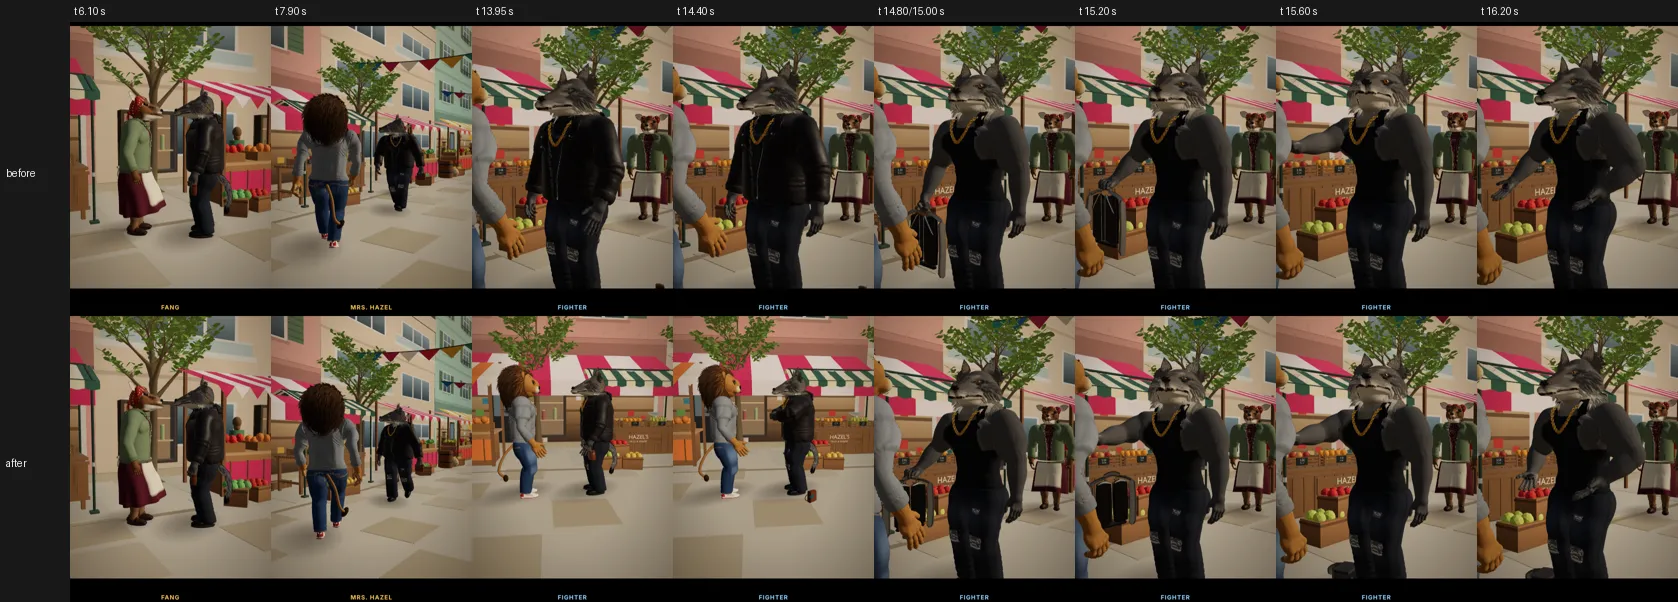
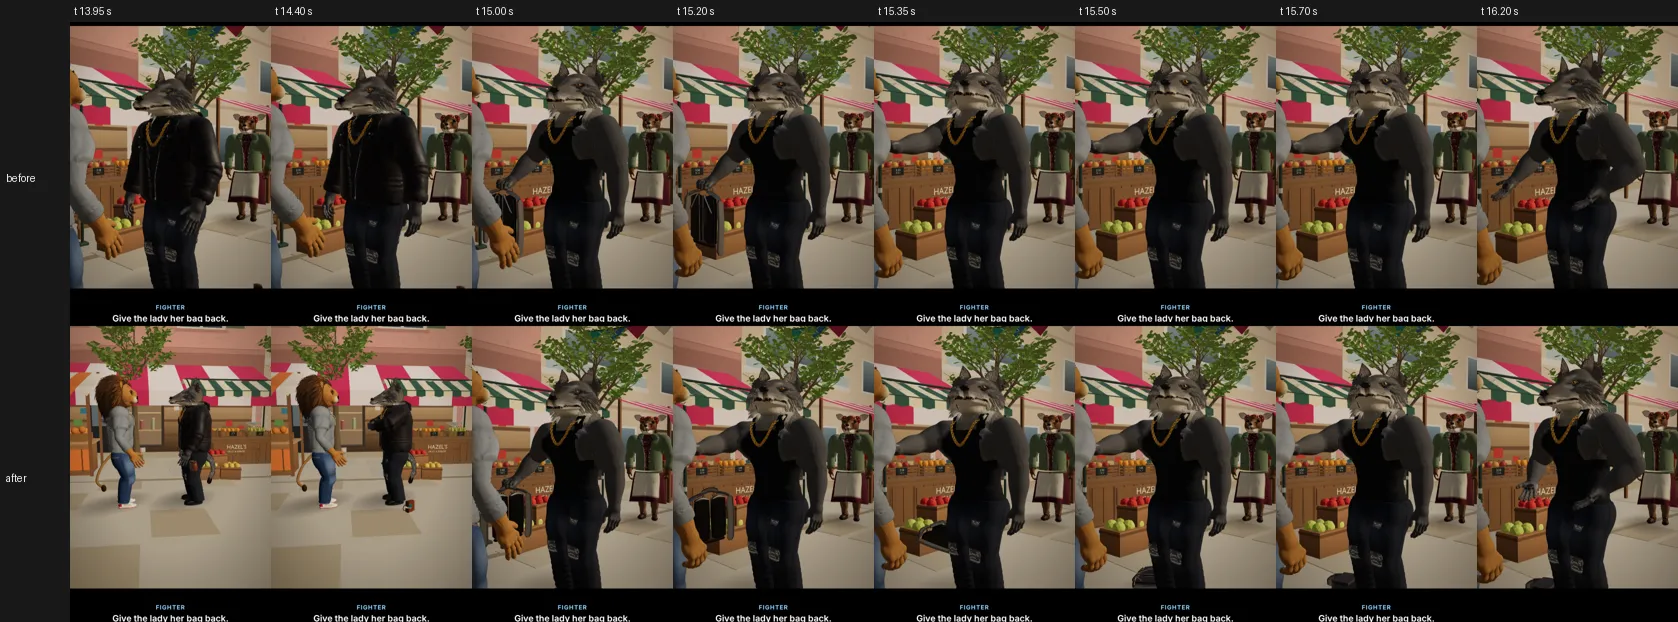
ch1-motion: reward handovers at 1 m and chest height, reward shot reframed; robbery and reward strips on v1.93
Claude-Session: https://claude.ai/code/session_012XYxhNGd6wn6U9MuUmHsfB

diff --git a/adventure/story/market-core.js b/adventure/story/market-core.js
@@ -173,8 +173,8 @@
         { t: 8.2, pos: [1.85, 1.7, 1.9], look: [-.85, 1.6, .55], fov: 29, ease: 'linear' },
         { t: 8.2, cut: true, pos: [-1.2, 1.55, 4.9], look: [1.3, 1.3, -.4] },                 // Otto comes over from his corner
         { t: 12.2, pos: [-1.0, 1.55, 4.5], look: [1.0, 1.3, -.3], ease: 'smooth' },
-        { t: 12.2, cut: true, pos: [-2.2, 1.6, 3.3], look: [.2, 1.3, -.1], fov: 34 },        // past the Fighter, on Mrs. Hazel: the reward
-        { t: 16.2, pos: [-2.1, 1.6, 3.15], look: [.2, 1.3, -.1], fov: 33, ease: 'linear' },
+        { t: 12.2, cut: true, pos: [-1.65, 1.6, 3.4], look: [-.1, 1.3, -.05], fov: 34 },     // past the Fighter, on Mrs. Hazel: the reward (ch1-motion: she stands closer to him now)
+        { t: 16.2, pos: [-1.55, 1.6, 3.25], look: [-.1, 1.3, -.05], fov: 33, ease: 'linear' },
         { t: 16.2, cut: true, pos: [.3, 1.3, 2.6], look: [-.85, 1.68, .55], fov: 30 },        // low on the Fighter: "exactly a new bag"
         { t: 20.2, pos: [.25, 1.3, 2.45], look: [-.85, 1.7, .55], fov: 28, ease: 'linear' },
         { t: 20.2, cut: true, pos: [-.4, 1.65, 5.2], look: [.5, 1.3, -.3] },                  // the three of them
@@ -310,7 +310,7 @@
   for (const id of ['dream_market_robbery', 'dream_market_reward']) Object.assign(scenes[id], { plant: true, ramp: .4 });
   // the bag and the reward pass from hand to hand (market-sets.js handover): Mrs. Hazel steps up to the Fighter first, so their
   // hands can meet between them (they stood 1.6 m apart: the bag jumped from his hand to hers)
-  scenes.dream_market_reward.actors.hazel.keys.splice(1, 0, { t: .4, x: .55, z: -.25 }, { t: 1.5, x: -.26, z: .1 });
+  scenes.dream_market_reward.actors.hazel.keys.splice(1, 0, { t: .4, x: .55, z: -.25 }, { t: 1.5, x: .02, z: .05 });
   scenes.dream_market_robbery.actors.fang.ramp = scenes.dream_market_reward.actors.otto.ramp = .2; // Fang runs off with the bag, Otto hurries over (2.1 m/s): a short speed-up keeps them under a jog
   // The reward line names the price; filled when the scene plays (the price lives in game-domain.js).
   const fill = (scene, price) => price == null ? scene : { ...scene, lines: scene.lines.map(l => ({ ...l, text: Object.fromEntries(Object.entries(l.text).map(([k, v]) => [k, String(v).replace(/\{price\}/g, String(price))])) })) };

diff --git a/adventure/story/market-sets.js b/adventure/story/market-sets.js
@@ -372,7 +372,7 @@
       for (const it of items) for (let i = 1; i < it.keys.length; i++) {
         const a = it.keys[i - 1], b = it.keys[i], A = holderOf(a.on), B = holderOf(b.on); if (!A || !B || A === B || (me !== A && me !== B)) continue;
         const w = smooth((t - (b.t - HAND_IN)) / HAND_IN) * (1 - smooth((t - b.t) / HAND_OUT)); if (w <= 0) continue;
-        const side = me === A ? a.hand || 'R' : b.hand || 'R', mid = () => { const p = A.joints['arm' + (a.hand || 'R')].getWorldPosition(V()), q = B.joints['arm' + (b.hand || 'R')].getWorldPosition(V()); return p.add(q).multiplyScalar(.5).setY(1.22); }; // between the two shoulders, at chest height
+        const side = me === A ? a.hand || 'R' : b.hand || 'R', mid = () => { const p = A.joints['arm' + (a.hand || 'R')].getWorldPosition(V()), q = B.joints['arm' + (b.hand || 'R')].getWorldPosition(V()); return p.add(q).multiplyScalar(.5).setY(1.3); }; // between the two shoulders, at chest height
         return { [side]: { at: rig => rig.root.worldToLocal(mid()).toArray(), w, paw: 'grip' } };
       }
       return null;
